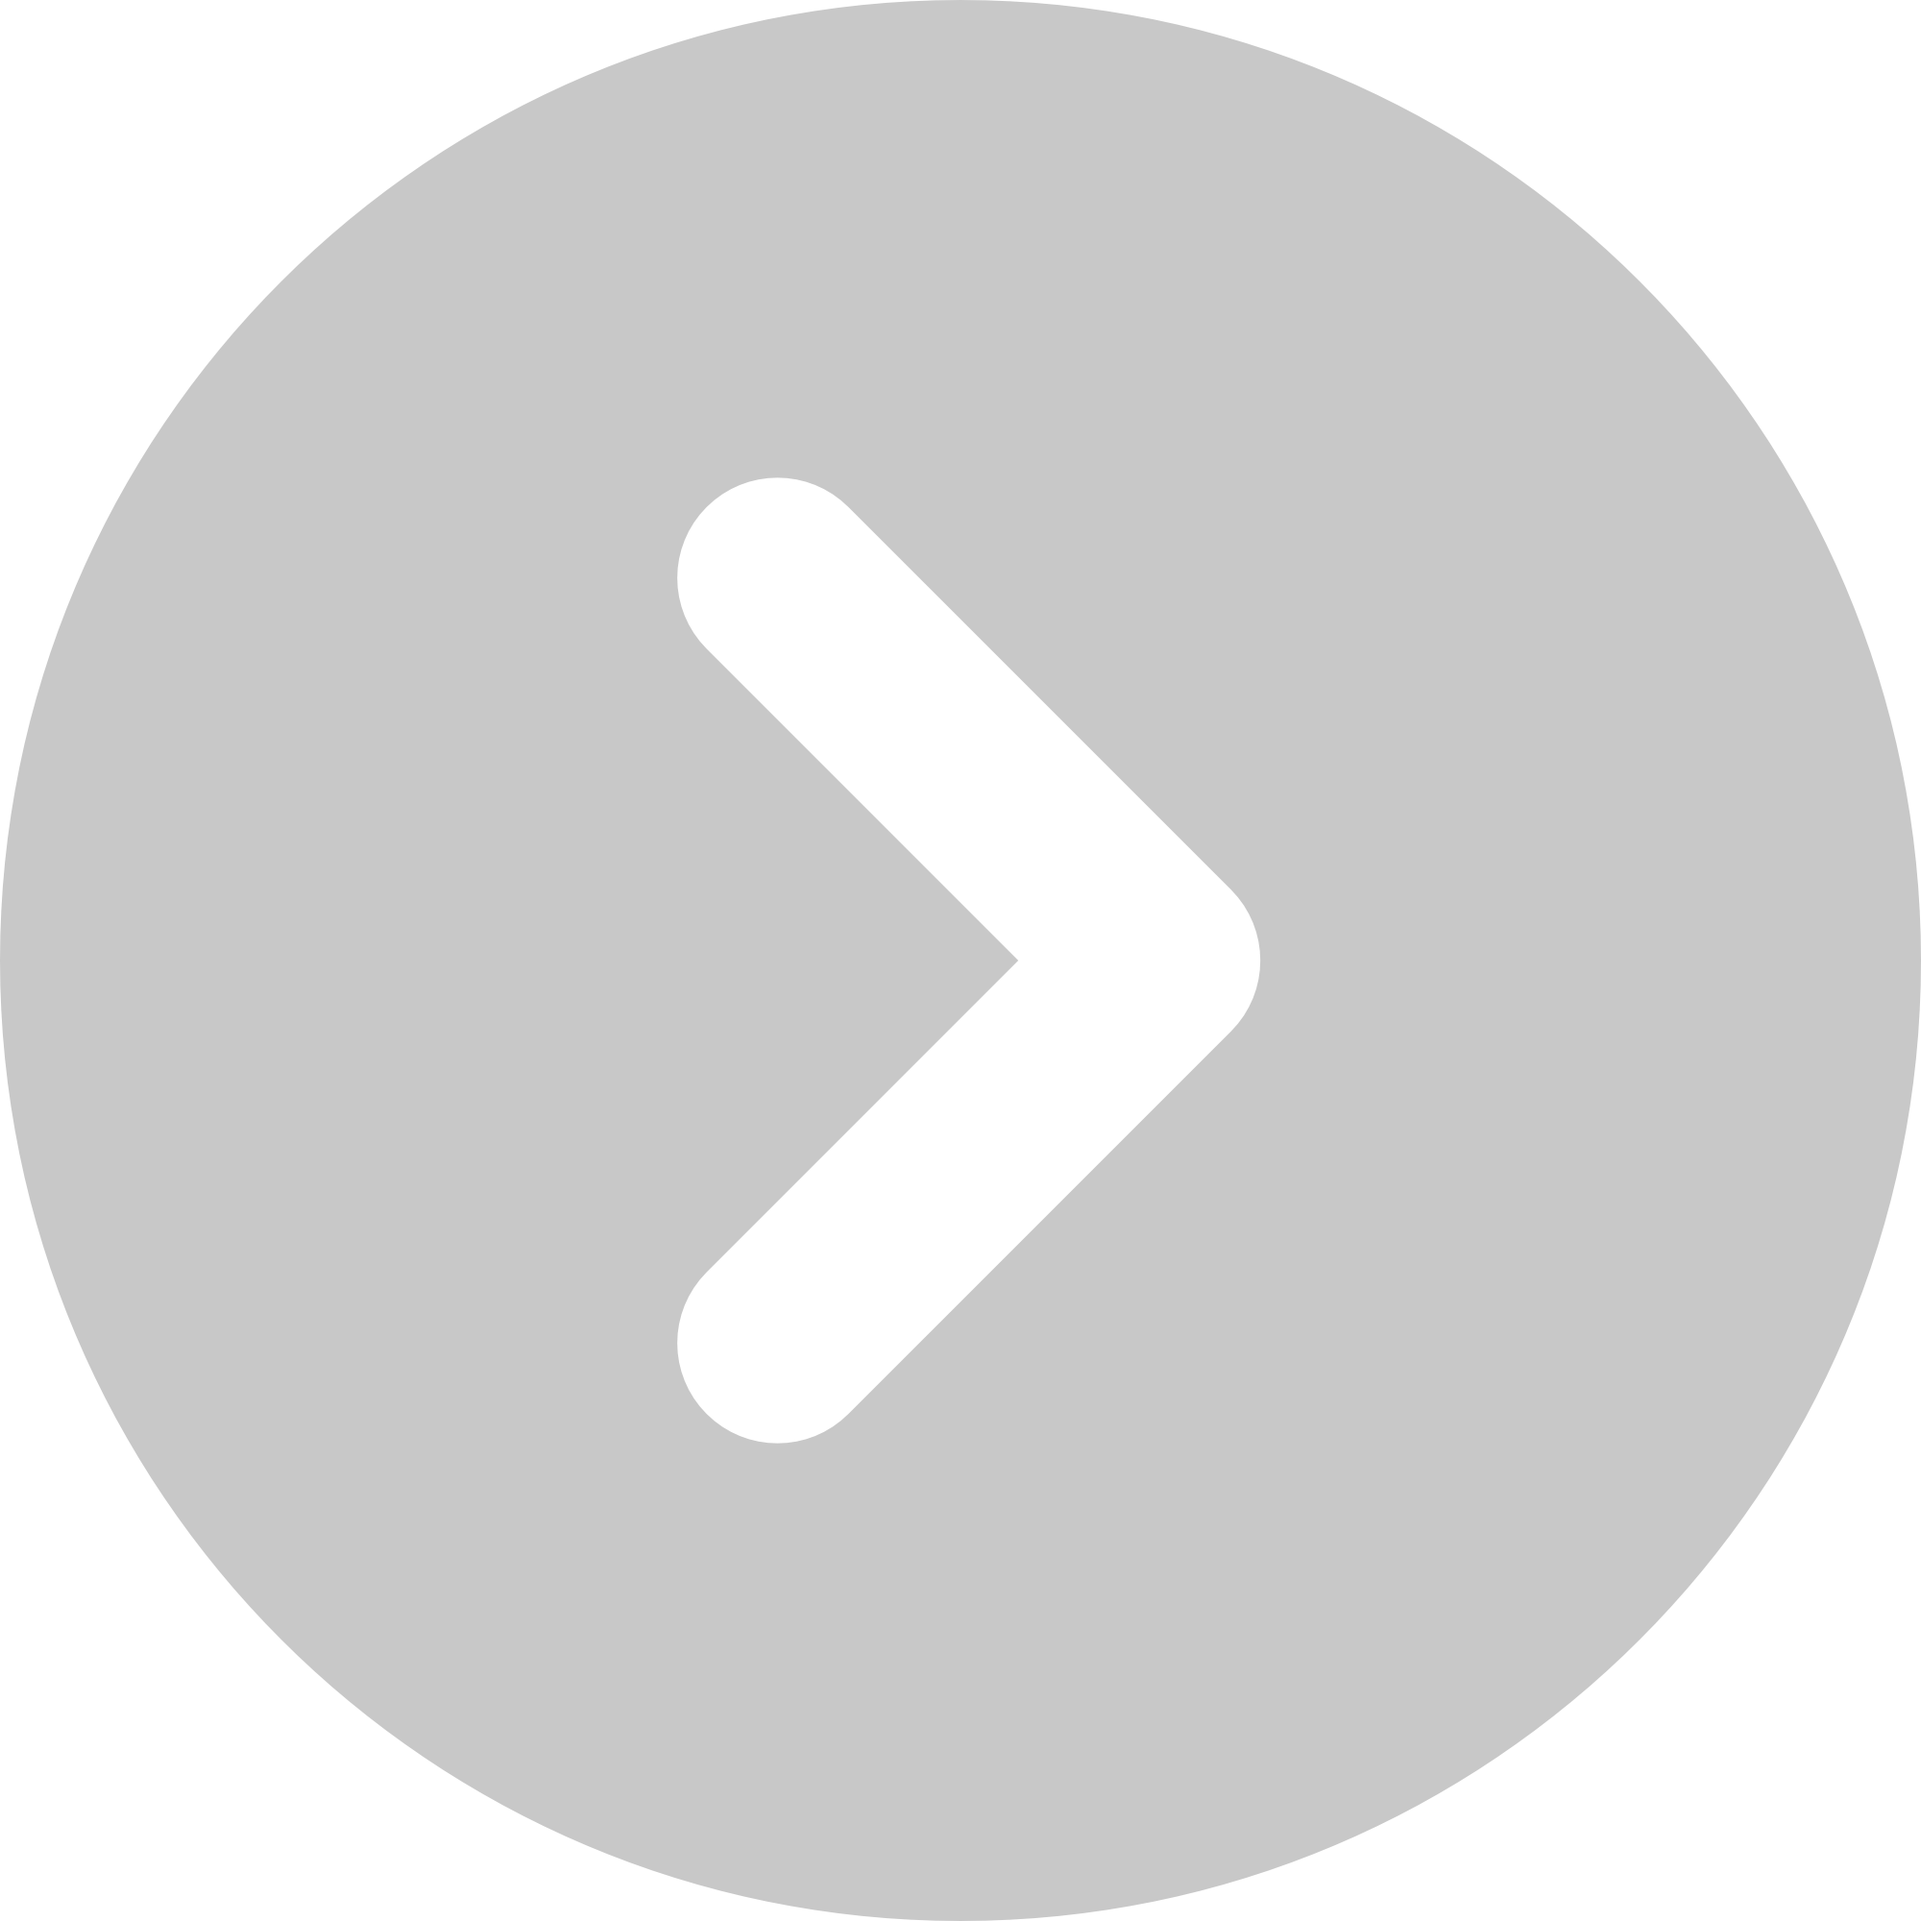
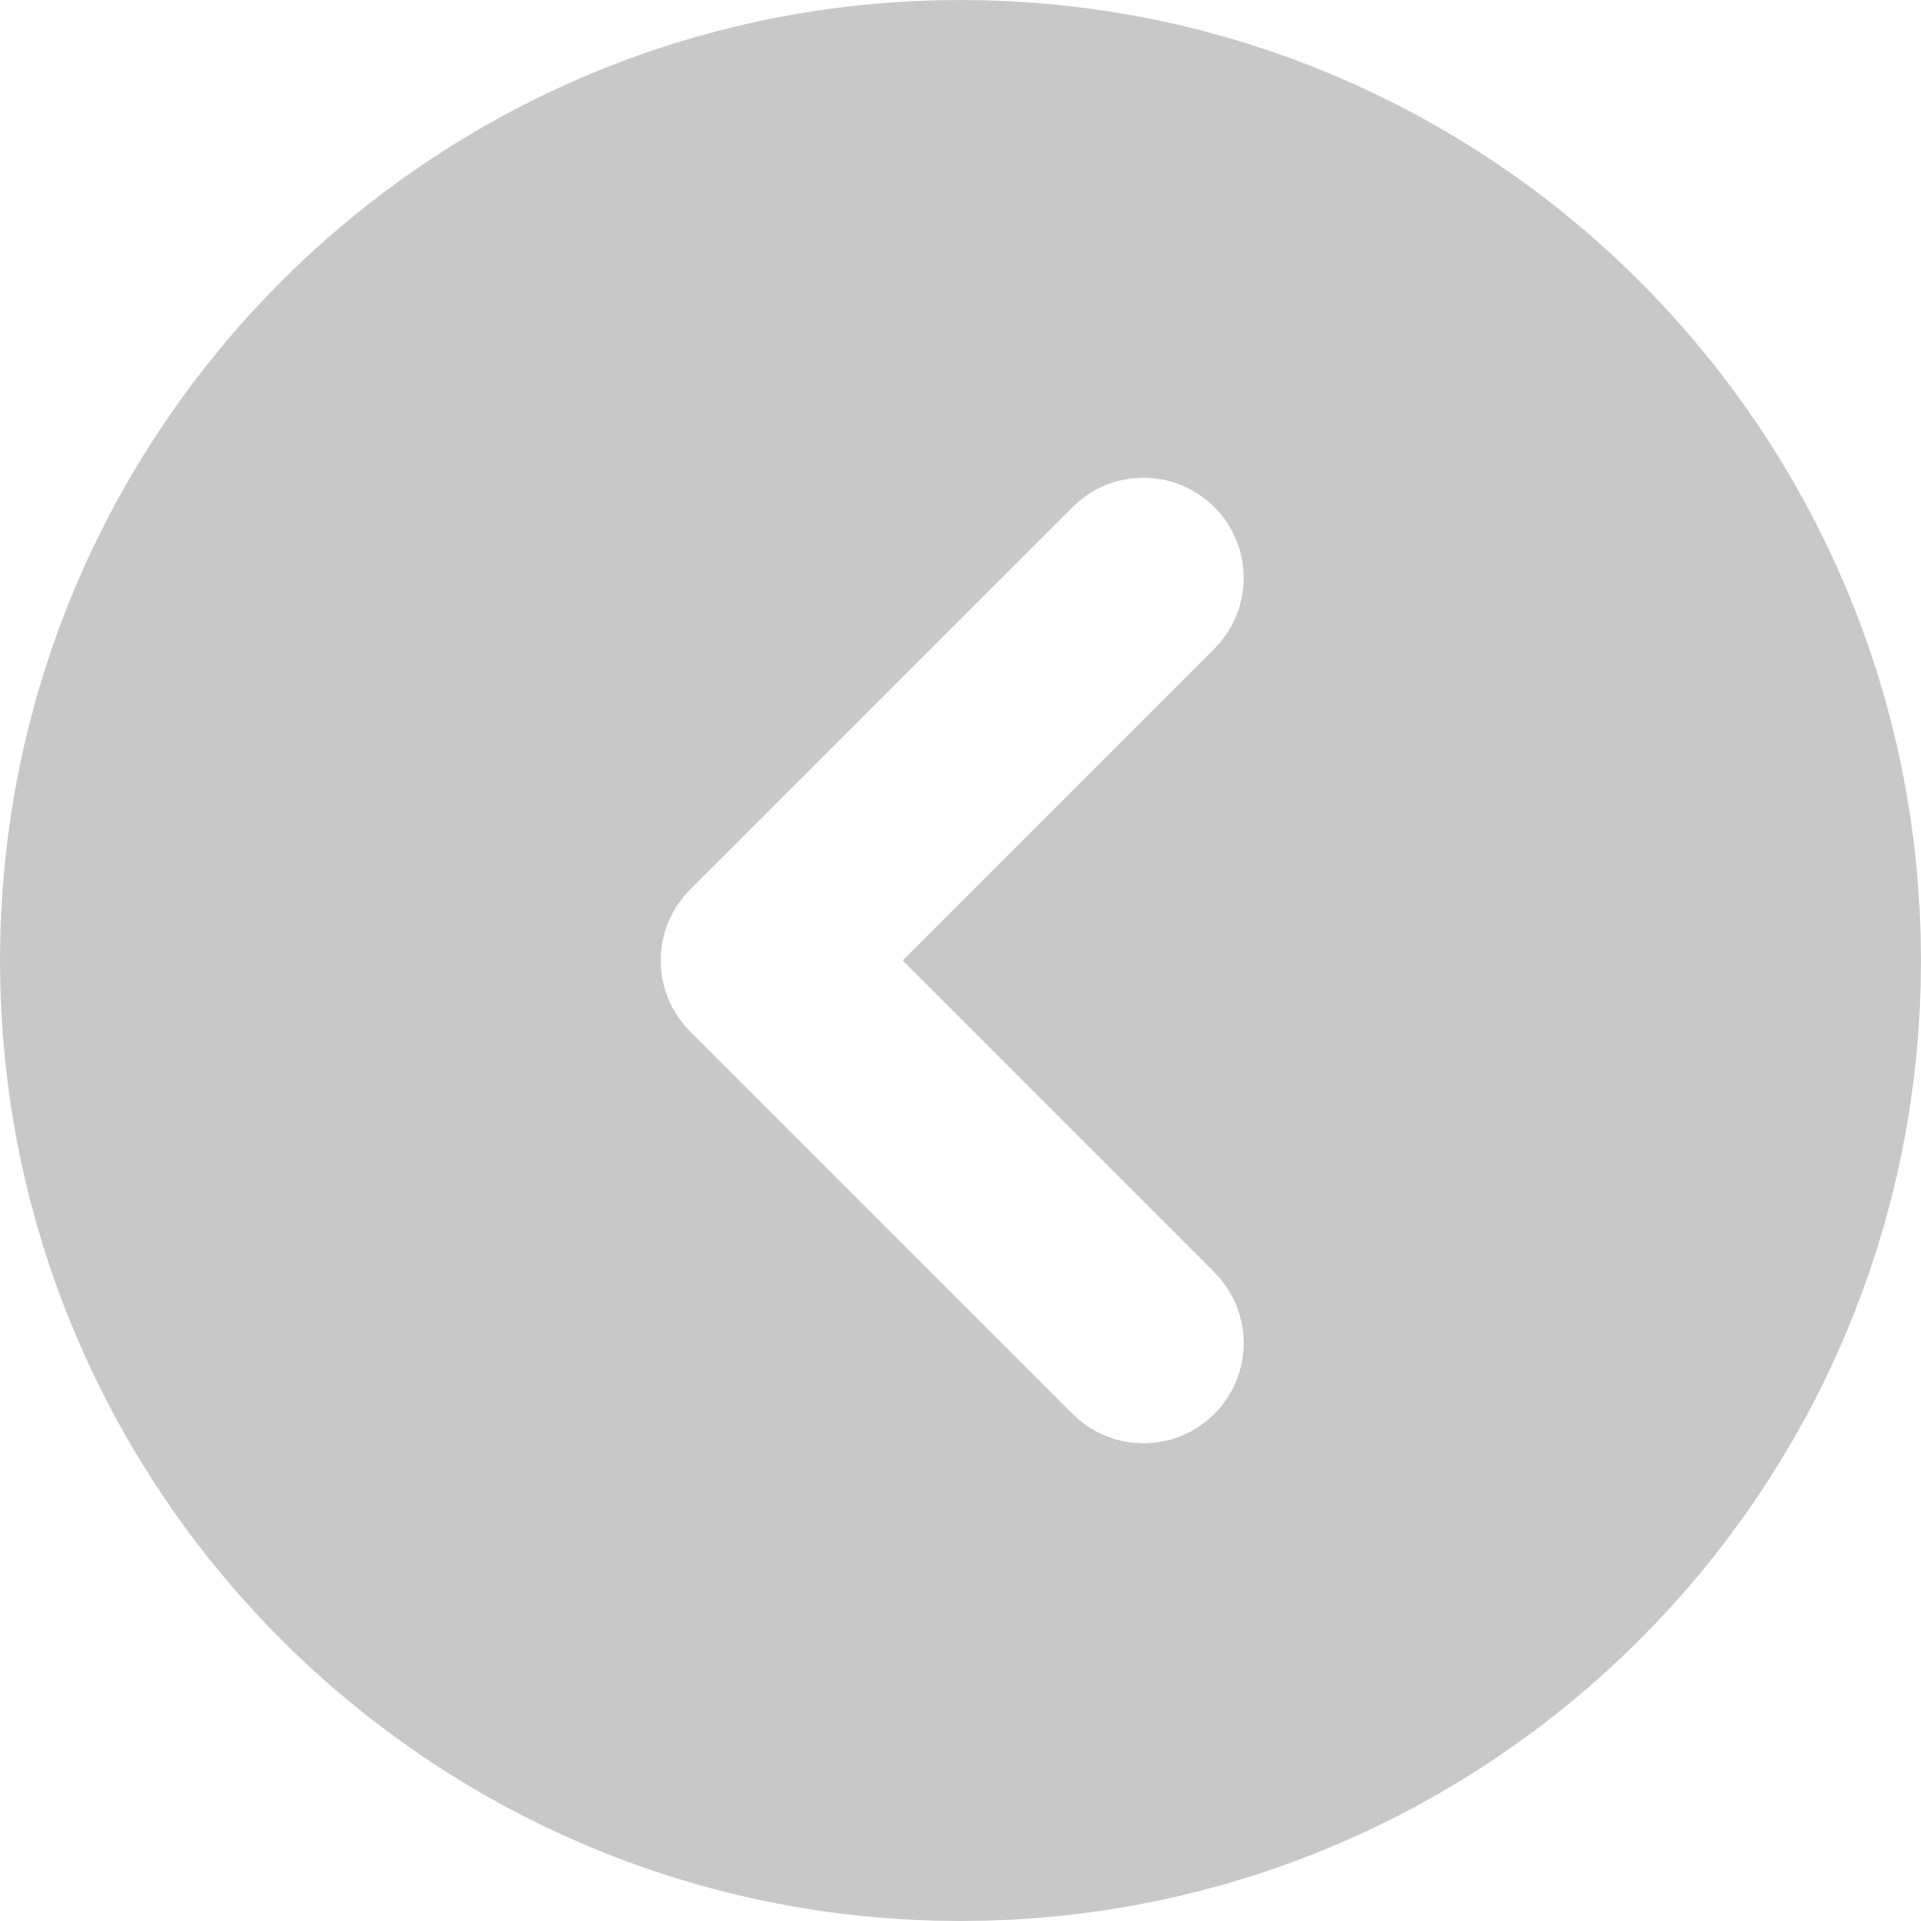
add btn back. final??

Changed region(s): [[0.341, 0.248, 0.682, 0.775]]

diff --git a/Assets/_project/Scripts/Singleton/SceneLoader.cs b/Assets/_project/Scripts/Singleton/SceneLoader.cs
@@ -20,6 +20,11 @@ public class SceneLoader : Singleton<SceneLoader>
         UIManager.Instant.ReloadUI();
     }
 
+    public void BackToMenu()
+    {
+        SceneManager.LoadScene(0);
+    }
+
     public void LoadSceneByName(string sceneName)
     {
         if (Application.CanStreamedLevelBeLoaded(sceneName))

diff --git a/Assets/_project/Scripts/ButtonController.cs b/Assets/_project/Scripts/ButtonController.cs
@@ -14,6 +14,11 @@ public class ButtonController : MonoBehaviour
         Application.Quit();
     }
 
+    public void BackToMenu()
+    {
+        SceneLoader.Instant.BackToMenu();
+    }    
+
     #region ExitConfirm
     public void PopUpExitConfirm()
     {
